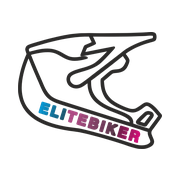
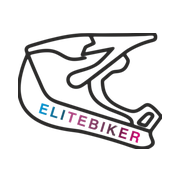
Čistejšia ikonka z loga, farby trailov aj pri e-bike, v detaile len vyplnené údaje, bez fotiek z jazdy
- Ikonky: obrys prilby zhrubnutý hladko (bez zubatých hrán), nápis s pôvodným farebným prechodom
- E-bike: výber farieb trailov ako pri horskom
- Detail jazdy: km, stúpanie, tempo či traily len ak sú zadané
- Sekcia Fotky z jazdy odstránená; pri zdieľaní sa fotka vyberie priamo z mobilu, oreže na formát a nikam sa nenahráva

Claude-Session: https://claude.ai/code/session_01ANEzfptDmYAk9tQ4yqLzv4

diff --git a/js/app.js b/js/app.js
@@ -48,7 +48,8 @@
   var TRAILS = { green: ["Zelená", "ľahké", "#16a34a"], blue: ["Modrá", "stredné", "#2563eb"], red: ["Červená", "náročné", "#dc2626"], black: ["Čierna", "expert", "#11131a"] };
   function hasPace(t) { return t === "cesta" || t === "gravel"; } // tempo a trasa len pri ceste a gravel
   function paceOf(r) { return hasPace(r.type) && r.pace && PACE[r.pace] ? PACE[r.pace] : ""; }
-  function trailsOf(r) { return r.type === "mtb" && r.trails && r.trails.length ? r.trails.filter(function (t) { return TRAILS[t]; }) : []; }
+  function hasTrails(t) { return t === "mtb" || t === "ebike"; } // farby trailov pri horskom aj e-bike
+  function trailsOf(r) { return hasTrails(r.type) && r.trails && r.trails.length ? r.trails.filter(function (t) { return TRAILS[t]; }) : []; }
   function tdots(list) { return '<span class="tdots">' + list.map(function (t) { return '<i style="background:' + TRAILS[t][2] + '" title="' + TRAILS[t][0] + '"></i>'; }).join("") + "</span>"; }
   function trailText(list) { return list.map(function (t) { return TRAILS[t][0].toLowerCase(); }).join(", "); }
   function rideStyle(r) { var p = paceOf(r), t = trailsOf(r); return p ? "tempo " + p.toLowerCase() : t.length ? "traily: " + trailText(t) : ""; }
@@ -526,7 +527,7 @@
       '<h1 class="t" style="margin-top:10px;font-size:21px">' + esc(r.title) + '</h1><p class="sub when">' + esc(whenText(r)) + "</p>" +
       (ended(r) ? "" : '<button class="calbtn" data-act="cal" data-id="' + r.id + '">' + sz(IC.cal, 16) + "Pridať do kalendára</button>") +
       '<div class="field set" style="margin-top:10px;cursor:default"><span class="ic">' + IC.pin + '</span><div class="grow"><b>Stretko</b><small>' + esc(r.meet.label) + "</small></div></div>" +
-      '<div class="grid4"><div><b>' + (r.distance_km ? km(r.distance_km) : "?") + "</b><small>km</small></div><div><b>" + (r.elevation_m || "?") + "</b><small>m stúp.</small></div><div>" + (paceOf(r) ? "<b>" + paceOf(r) + "</b><small>tempo</small>" : trailsOf(r).length ? "<b>" + tdots(trailsOf(r)) + "</b><small>" + (trailsOf(r).length === 1 ? TRAILS[trailsOf(r)[0]][0].toLowerCase() + " · " + TRAILS[trailsOf(r)[0]][1] : "traily") + "</small>" : "<b>" + (TYPES[r.type] || TYPES.mtb)[0] + "</b><small>bicykel</small>") + '</div><div><b id="dCount">' + r.participants.length + (r.max_people ? "/" + r.max_people : "") + "</b><small>" + (r.max_people ? "miest" : ludi(r.participants.length)) + "</small></div></div>" +
+      statGrid(r) +
       (r.note ? '<div class="note">' + esc(r.note) + "</div>" : "") +
       (r.link_url ? '<a class="linkout" href="' + esc(r.link_url) + '" target="_blank" rel="noopener nofollow">' + sz(IC.link, 16) + '<span class="grow"><b>Trasa / info o akcii</b><small>' + esc(r.link_url.replace(/^https?:\/\/(www\.)?/, "").split("/")[0]) + "</small></span>" + sz(IC.back, 14).replace("<svg", '<svg style="transform:rotate(180deg)"') + "</a>" : "") +
       '<div id="dWx"></div><div id="dPhotos"></div><div id="dPeople"></div><div id="dChat"></div></div><div class="sticky-act" id="dActs"></div>');
@@ -584,10 +585,20 @@
     if (scroll) { var sh = $("sheet"); sh.scrollTop = sh.scrollHeight; }
   }
   function loadPhotos(id) { api.photos(id).then(function (p) { S.photos[id] = p; if (S.openId === id) renderPhotos(); }).catch(function () { S.photos[id] = []; }); }
+  // údaje jazdy: ukážeme len to, čo organizátor vyplnil
+  function statGrid(r) {
+    var c = [];
+    if (r.distance_km) c.push("<b>" + km(r.distance_km) + "</b><small>km</small>");
+    if (r.elevation_m) c.push("<b>" + r.elevation_m + "</b><small>m stúpania</small>");
+    if (paceOf(r)) c.push("<b>" + paceOf(r) + "</b><small>tempo</small>");
+    else if (trailsOf(r).length) c.push("<b>" + tdots(trailsOf(r)) + "</b><small>" + (trailsOf(r).length === 1 ? TRAILS[trailsOf(r)[0]][0].toLowerCase() + " · " + TRAILS[trailsOf(r)[0]][1] : trailText(trailsOf(r))) + "</small>");
+    c.push('<b id="dCount">' + r.participants.length + (r.max_people ? "/" + r.max_people : "") + "</b><small>" + (r.max_people ? "miest" : ludi(r.participants.length)) + "</small>");
+    return '<div class="grid4" style="grid-template-columns:repeat(' + c.length + ',minmax(0,1fr))">' + c.map(function (x) { return "<div>" + x + "</div>"; }).join("") + "</div>";
+  }
   function renderPhotos() {
     var r = find(S.openId), el = $("dPhotos"); if (!r || !el) return;
+    el.innerHTML = ""; return;
     var ph = S.photos[r.id] || [], can = going(r);
-    if (!can && !ph.length) { el.innerHTML = ""; return; }
     el.innerHTML = (canStory(r) && !ended(r) ? '<button class="storyrow" data-act="story" data-id="' + r.id + '">' + sz(IC.share, 20) + '<span class="grow"><b>Zdieľať jazdu</b><small>fotka s číslami, trasou a logom EliteBiker</small></span></button>' : "") + '<div class="sec-h"><b>Fotky z jazdy</b><small>' + (ph.length ? ph.length + " · vidia ich všetci pozvaní" : "zatiaľ žiadne") + '</small></div><div class="phg">' +
       (can ? '<label class="upt">' + sz(IC.plus, 22) + 'Pridať fotku<input type="file" accept="image/*" multiple data-up="photo" data-id="' + r.id + '"></label>' : "") +
       ph.map(function (p, i) { return '<div class="ph" data-act="viewph" data-i="' + i + '"><img class="real" src="' + esc(p.url) + '" alt="" loading="lazy"><span class="who">' + pic(p.user_id, "xs") + '<span style="overflow:hidden;text-overflow:ellipsis">' + (p.user_id === S.uid ? "ty" : esc(hname(p.user_id))) + "</span></span></div>"; }).join("") + "</div>" +
@@ -867,7 +878,7 @@
   }
 
   /* ---------------- EliteBiker dizajn na zdieľanie (fotka + štatistiky, trasa, partia, nálepka) ---------------- */
-  var DSG = { id: null, style: "stats", fmt: "story", bg: 0, local: null, localFor: null, blob: null, url: null, n: 0 };
+  var DSG = { id: null, style: "stats", fmt: "story", bg: 0, locals: [], blob: null, url: null, n: 0 };
   var DSTY = [["stats", "Štatistiky"], ["route", "Trasa"], ["crew", "Partia"], ["sticker", "Nálepka"]];
   var DFMT = [["story", "Príbeh 9:16"], ["post", "Príspevok 4:5"]];
   function loadImg(src) { return new Promise(function (res) { if (!src) return res(null); var i = new Image(); if (!/^(blob|data):/.test(src)) i.crossOrigin = "anonymous"; i.onload = function () { res(i); }; i.onerror = function () { res(null); }; i.src = src; }); }
@@ -1067,19 +1078,15 @@
     });
   }
 
-  function dsgBgs() { return (S.photos[DSG.id] || []).slice(0, 12).map(function (p) { return { id: p.id, url: DSG.local && DSG.localFor === p.id ? DSG.local : p.url }; }); }
+  // pozadie: fotky vybrané priamo z mobilu (nikam sa nenahrávajú)
+  function dsgBgs() { return (DSG.locals || []).map(function (u, i) { return { id: "l" + i, url: u }; }); }
   function openDesign(id, o) {
     var r = find(id); if (!r) return; o = o || {};
-    if (DSG.local && DSG.local !== o.local) URL.revokeObjectURL(DSG.local);
-    DSG.id = id; DSG.local = o.local || null; DSG.localFor = o.photo || null; DSG.blob = null;
-    var go = function () {
-      var bgs = dsgBgs(), i = -1;
-      if (o.photo) bgs.forEach(function (b, k) { if (b.id === o.photo) i = k; });
-      DSG.bg = i > -1 ? i + 1 : bgs.length ? 1 : 0;
-      DSG.style = o.style || (DSG.bg ? "stats" : routeOf(r) ? "route" : "crew");
-      drawDesign(); buildDesign();
-    };
-    if (S.photos[id]) go(); else api.photos(id).then(function (p) { S.photos[id] = p; go(); }).catch(function () { S.photos[id] = []; go(); });
+    if (DSG.id !== id) { (DSG.locals || []).forEach(function (u) { URL.revokeObjectURL(u); }); DSG.locals = []; }
+    DSG.id = id; DSG.blob = null;
+    DSG.bg = DSG.locals.length ? 1 : 0;
+    DSG.style = o.style || (DSG.bg ? "stats" : routeOf(r) ? "route" : "crew");
+    drawDesign(); buildDesign();
   }
   function clipOk() { return !!(window.ClipboardItem && navigator.clipboard && navigator.clipboard.write); }
   function dsgFmt() { return DSG.style === "crew" ? "story" : DSG.fmt; }
@@ -1094,7 +1101,7 @@
         : '<div class="dfmt">' + DFMT.map(function (f) { return opt("fmt", f[0], f[1], fmt === f[0]) .replace("<button", st === "crew" && f[0] === "post" ? "<button disabled" : "<button"); }).join("") + "</div>" +
           '<span class="fl">Pozadie</span><div class="bgs f-' + fmt + '">' + opt("bg", 0, '<span class="blue"></span>', DSG.bg === 0) +
           bgs.map(function (b, i) { return opt("bg", i + 1, '<img src="' + esc(b.url) + '" alt="">', DSG.bg === i + 1); }).join("") +
-          (going(r) ? '<label class="bgadd" title="Pridať fotku">' + sz(IC.plus, 20) + '<span>Fotka</span><input type="file" accept="image/*" data-up="photo" data-id="' + r.id + '" hidden></label>' : "") + "</div>") +
+          '<label class="bgadd" title="Vybrať fotku z mobilu">' + sz(IC.plus, 20) + '<span>Fotka</span><input type="file" accept="image/*" data-up="dsgbg" hidden></label>' + "</div>") +
       '<div class="lacts" style="margin-top:16px">' + (canShare ? '<button class="btn igb" data-act="dsg-share" disabled>' + sz(IC.share, 16) + "Zdieľať</button>" : "") +
       (stk && clipOk() ? '<button class="btn" data-act="dsg-copy" disabled>Kopírovať nálepku</button>' : "") +
       '<button class="btn gh" data-act="dsg-save" disabled>Uložiť obrázok</button></div>' +
@@ -1265,7 +1272,7 @@
       (hasPace(D.type) ? '<span class="fl">Trasa <small>nepovinné</small></span><button type="button" class="field' + (D.route ? " set" : "") + '" data-act="pick-route"' + (D.meet ? "" : " disabled") + '><span class="ic">' + IC.route + '</span><div class="grow"><b>' + (D.route ? "Trasa · " + esc(D.km) + " km" : "Nakresliť trasu na mape") + "</b><small>" + (D.route ? D.route.length + " bodov, ťukni a uprav" : D.meet ? "Ťukaj na mapu, kadiaľ pôjdete" : "Najprv vyber stretko") + "</small></div></button>" : "") +
       '<span class="fl">Kam? <small>názov jazdy</small></span><input class="inp" id="f-title" maxlength="80" value="' + esc(D.title) + '" placeholder="napr. Manín, Súľov, pumptrack" enterkeyhint="done">' +
       (hasPace(D.type) ? '<span class="fl">Tempo</span><div class="seg3">' + Object.keys(PACE).map(function (k) { return '<button type="button" data-act="d" data-k="pace" data-v="' + k + '" class="' + (D.pace === k ? "on" : "") + '">' + PACE[k] + "</button>"; }).join("") + "</div>" : "") +
-      (D.type === "mtb" ? '<span class="fl">Aké traily? <small>môžeš vybrať viac</small></span><div class="trails">' + Object.keys(TRAILS).map(function (k) { var on = D.trails.indexOf(k) > -1; return '<button type="button" data-act="trail" data-v="' + k + '" class="' + (on ? "on" : "") + '" aria-pressed="' + on + '"><i style="background:' + TRAILS[k][2] + '"></i><b>' + TRAILS[k][0] + "</b><small>" + TRAILS[k][1] + "</small></button>"; }).join("") + "</div>" : "") +
+      (hasTrails(D.type) ? '<span class="fl">Aké traily? <small>môžeš vybrať viac</small></span><div class="trails">' + Object.keys(TRAILS).map(function (k) { var on = D.trails.indexOf(k) > -1; return '<button type="button" data-act="trail" data-v="' + k + '" class="' + (on ? "on" : "") + '" aria-pressed="' + on + '"><i style="background:' + TRAILS[k][2] + '"></i><b>' + TRAILS[k][0] + "</b><small>" + TRAILS[k][1] + "</small></button>"; }).join("") + "</div>" : "") +
       '<button type="button" class="more' + (moreOpen ? " open" : "") + '" data-act="more" aria-expanded="' + moreOpen + '"><span>' + (moreOpen ? "Podrobnosti" : "＋ Pridať podrobnosti") + (filled ? ' <i class="cnt">' + filled + "</i>" : "") + "</span><small>dĺžka, prevýšenie, limit ľudí, odkaz, popis</small>" + sz(IC.back, 16).replace("<svg", '<svg class="chev"') + "</button>" +
       '<div class="morebox"' + (moreOpen ? "" : " hidden") + ">" +
       '<div class="two"><div><span class="fl">Dĺžka (km)</span><input class="inp" id="f-km" inputmode="decimal" value="' + esc(D.km) + '" placeholder="napr. 35"></div><div><span class="fl">Prevýšenie (m)</span><input class="inp" id="f-elev" inputmode="numeric" value="' + esc(D.elev) + '" placeholder="napr. 800"></div></div>' +
@@ -1334,7 +1341,7 @@
     api.createRide({ type: D.type, title: title.slice(0, 80), note: (D.note || "").trim().slice(0, 2000), starts_at: st.toISOString(), ends_at: en.toISOString(),
       elevation_m: isFinite(el) ? el : null, max_people: mx, link_url: ln ? ln.slice(0, 300) : null,
       meet: { lat: D.meet.lat, lng: D.meet.lng, label: D.meet.label }, route: hasPace(D.type) ? D.route : null, distance_km: isFinite(km) ? km : null,
-      pace: hasPace(D.type) ? D.pace : null, trails: D.type === "mtb" && D.trails.length ? D.trails.slice() : null, visibility: dVis(),
+      pace: hasPace(D.type) ? D.pace : null, trails: hasTrails(D.type) && D.trails.length ? D.trails.slice() : null, visibility: dVis(),
       audience_kind: same(D.inv, S.fr.friends) ? "friends" : "pick" }, D.inv.slice()).then(function (id) {
       closeModal(); $("sheet").classList.remove("open"); if (fmap) { fmap.remove(); fmap = null; }
       S.tab = "feed"; S.filter = "all"; S.pts = null;
@@ -1492,6 +1499,16 @@
     var t = e.target; if (!t || !t.files || !t.files.length || !t.dataset.up) return;
     var kind = t.dataset.up, id = t.dataset.id, files = [].slice.call(t.files);
     t.value = "";
+    if (kind === "dsgbg") {
+      var asp = DSG.style === "sticker" ? "1:1" : dsgFmt() === "post" ? "4:5" : "9:16";
+      (window.EBCrop ? EBCrop.open(files[0], { aspect: asp, lock: true, title: "Fotka na pozadie", parent: $("app") }).catch(function () { return { skip: true }; }) : Promise.resolve({ skip: true })).then(function (r) {
+        if (!r) return;
+        DSG.locals.unshift(URL.createObjectURL(r.blob || files[0])); DSG.locals = DSG.locals.slice(0, 6);
+        DSG.bg = 1; if (DSG.style === "route" || DSG.style === "sticker") DSG.style = "stats";
+        drawDesign(true); buildDesign();
+      });
+      return;
+    }
     if (kind === "avatar") cropAvatar(files[0]).then(function (f) {
       if (!f) return;
       toast("Nahrávam fotku…");

diff --git a/README.md b/README.md
@@ -13,11 +13,11 @@ Daj kamošom vedieť, kedy ideš na bike (cesta, gravel, horský, e-bike), a pri
 - **Kto jazdu uvidí?** 🌍 **verejná** (každý biker do 30 km od stretka sa môže pridať), 👥 **pre partiu** (pozvaní môžu pozvať ďalších)
   alebo 🔒 **len pre vybraných** (ďalej sa nedá poslať). Skratky ako na Snapchate, pozývanie odkazom aj ľudí bez appky.
 - **Verejné jazdy v okolí**: podľa mesta v profile (do 30 km), presná poloha sa nezisťuje.
-- **Chat len pre účastníkov**, po skončení jazdy sa zmaže. **Fotky z jazdy** ostávajú, pred nahraním sa dajú orezať (posun, priblíženie, otočenie, pomer 4:5, 1:1, 9:16), profilovka do kruhu.
-- **Zdieľanie s EliteBiker dizajnom** (ako na Strave): fotka z jazdy s číslami (km, stúpanie, čas), trasou a logom, štýly Štatistiky, Trasa, Partia a priehľadná Nálepka, formát Príbeh 9:16 alebo Príspevok 4:5. Obrázok sa kreslí v telefóne.
+- **Chat len pre účastníkov**, po skončení jazdy sa zmaže. Profilovka sa pred nahraním dá orezať do kruhu.
+- **Zdieľanie s EliteBiker dizajnom** (ako na Strave): fotka z mobilu (oreže sa na formát, nikam sa nenahráva) s číslami (km, stúpanie, čas), trasou a logom, štýly Štatistiky, Trasa, Partia a priehľadná Nálepka, formát Príbeh 9:16 alebo Príspevok 4:5. Obrázok sa kreslí v telefóne.
 - **Moje bicykle**: výber z ponuky elitebiker.sk, bicykle aj elektrobicykle (aktualizuje sa každý deň), alebo vlastný názov; kamoši ich vidia pri mene.
 - **Profil kamoša**: klik na priateľa ukáže vek, mesto, kontakt, na čom jazdí, bicykle a jeho najbližšiu jazdu. Vek a mesto vidia len priatelia.
-- **Nová jazda podľa bicykla**: pri ceste a gravel tempo a trasa, pri horskom farby trailov (zelená, modrá, červená, čierna), e-bike a dirt bez nich. Predvolene môžu účastníci pozvať ďalších, zaškrtnutím „len pozvaní“.
+- **Nová jazda podľa bicykla**: pri ceste a gravel tempo a trasa, pri horskom a e-bike farby trailov (zelená, modrá, červená, čierna), dirt bez nich. V detaile jazdy sa ukážu len vyplnené údaje. Predvolene môžu účastníci pozvať ďalších, zaškrtnutím „len pozvaní“.
 - **Upozornenia do mobilu**: žiadosť o priateľstvo, prijatie, pozvánka na jazdu, kto sa pridal k jazde, zlé počasie. V Profile jedno tlačidlo na zapnutie a skúšobné upozornenie. Na iPhone appka ukáže, ako si ju pridať na plochu, a po otvorení z plochy sa raz opýta na upozornenia.
 - **EliteBiker Klub**: pripravujeme (v appke zatiaľ len ukážka). Body už počíta server, odmeny a zľavy prídu neskôr.
 - **Administrácia** (`admin.html`) s dvojstupňovým overením: používatelia, body, vydanie odmeny, verejné jazdy, záznam zmien.
